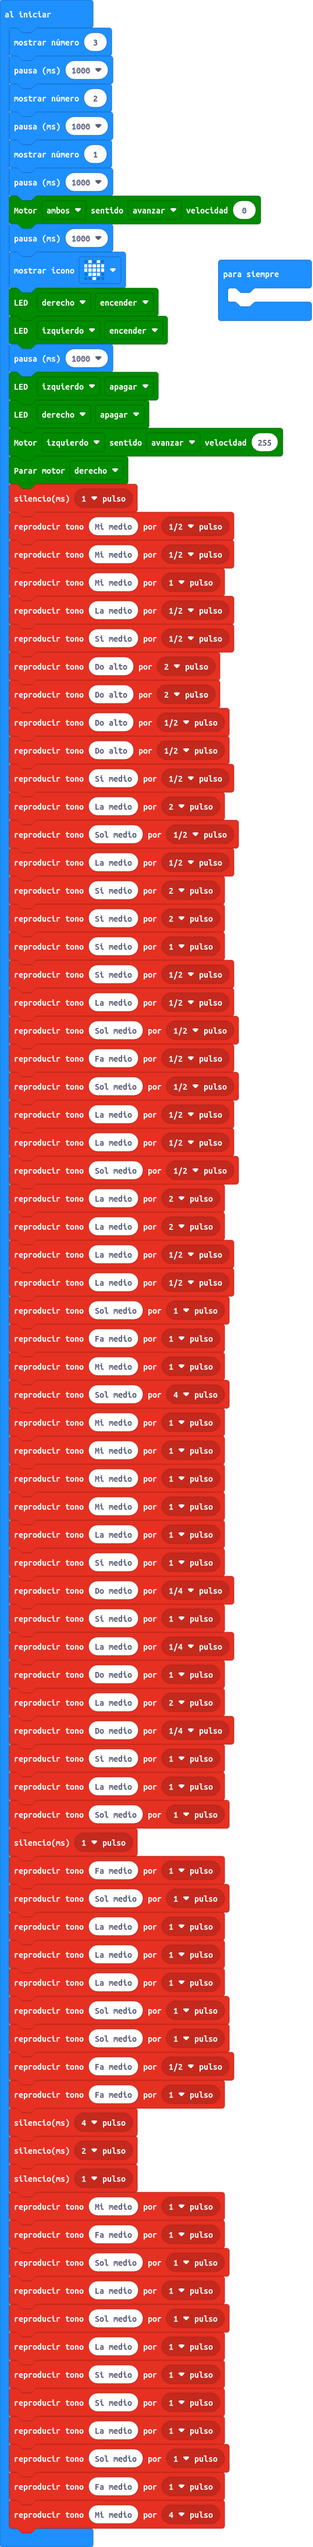
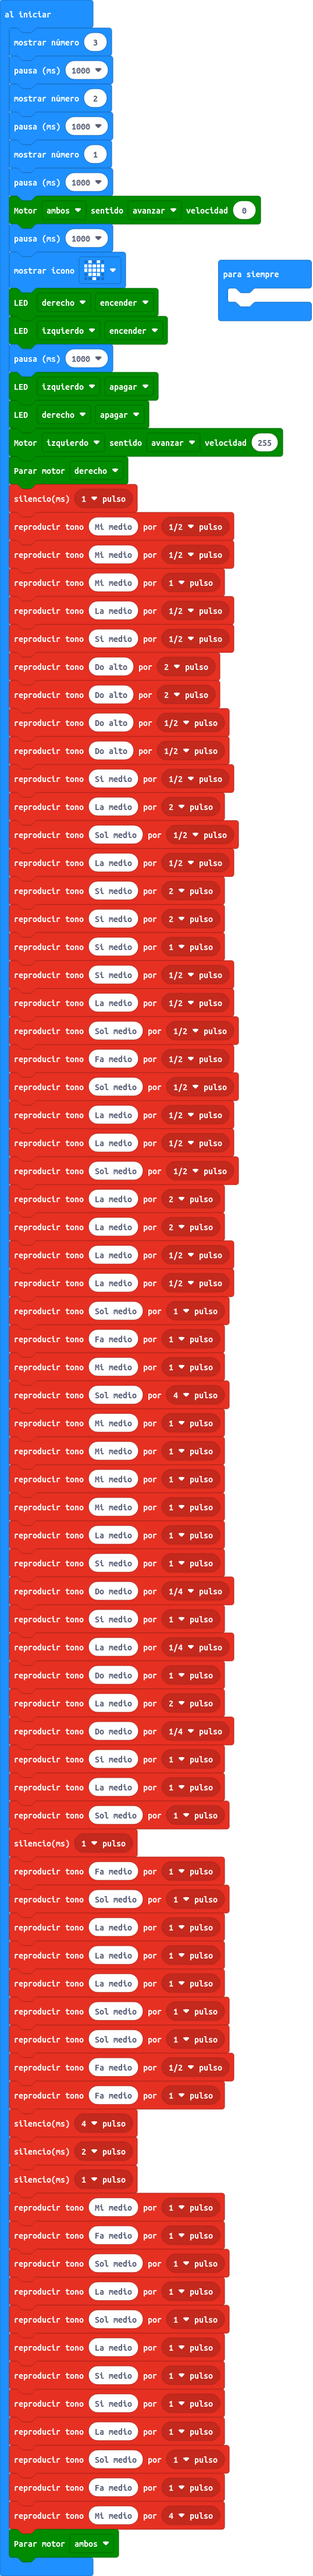
Actualizar main.blocks, main.ts

Changed region(s): [[0.0297, 0.0, 0.8922, 0.9968], [0.5948, 0.0623, 1.0, 0.1246]]

diff --git a/main.ts b/main.ts
@@ -87,6 +87,7 @@ music.playTone(440, music.beat(BeatFraction.Whole))
 music.playTone(392, music.beat(BeatFraction.Whole))
 music.playTone(349, music.beat(BeatFraction.Whole))
 music.playTone(330, music.beat(BeatFraction.Breve))
+maqueen.motorStop(maqueen.Motors.All)
 basic.forever(function () {
 	
 })
